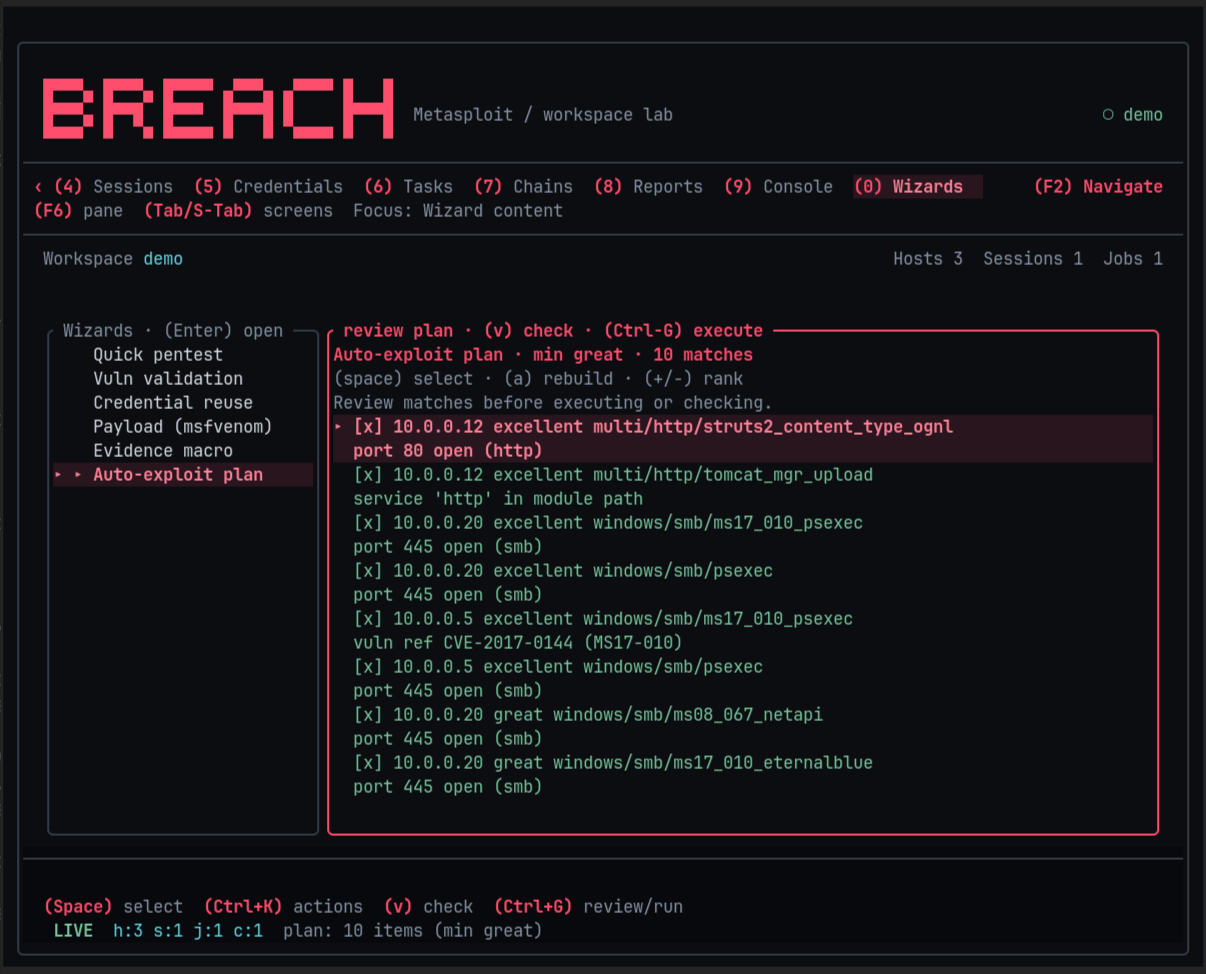
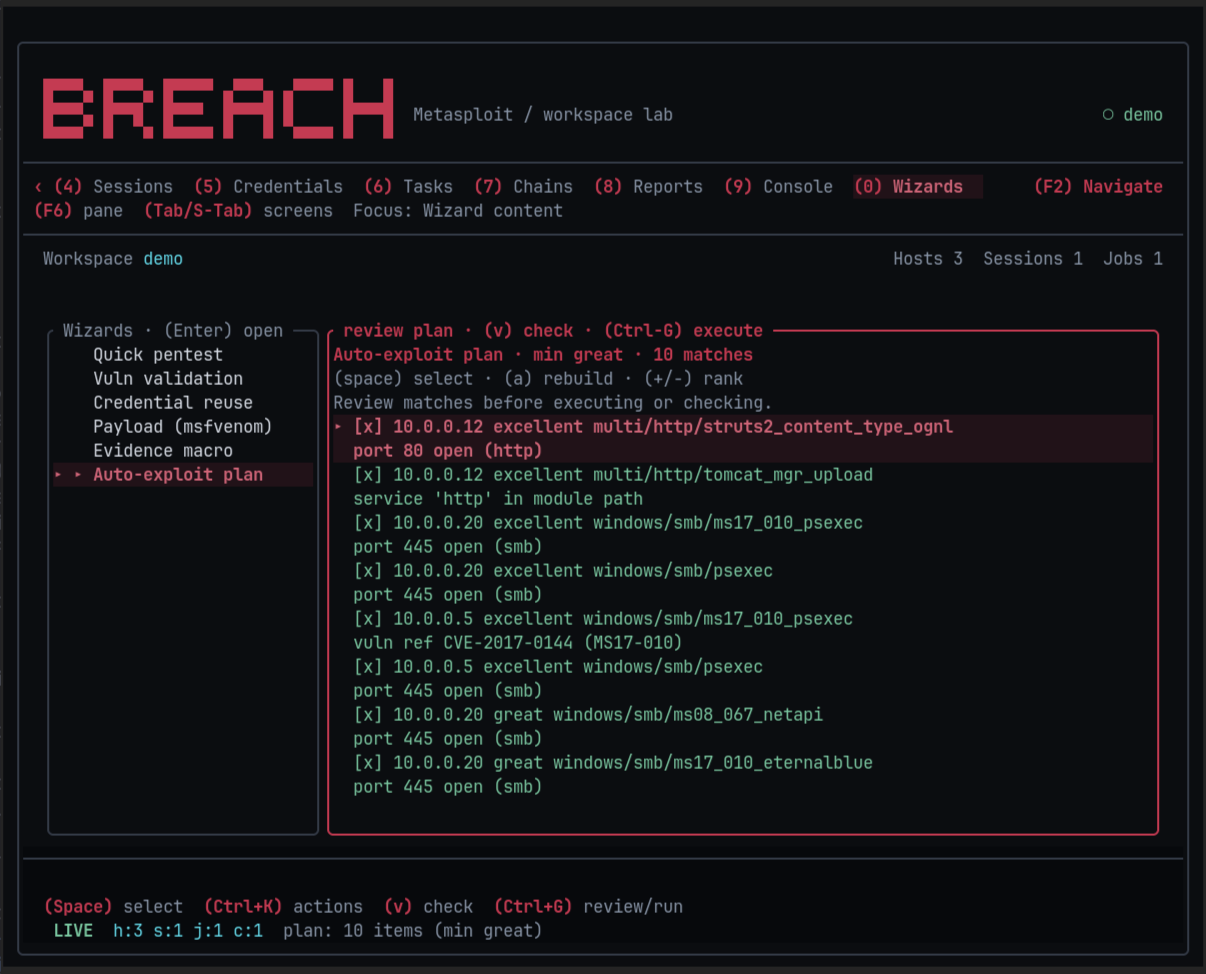
Darken Crimson accents, selections and error colors

diff --git a/src/theme/palette.rs b/src/theme/palette.rs
@@ -640,11 +640,11 @@ pub fn crimson() -> Theme {
         "Crimson",
         Kind::Dark,
         [
-            "0b0d10", "07090c", "181c23", "343b47", "28151e", "d6dbe4", "8793a5", "8793a5",
-            "ff4d6d", "ff6b6b", "e5b56d", "7ac7a0", "64d8e8", "64d8e8", "ff4d6d",
+            "0b0d10", "07090c", "181c23", "343b47", "211218", "d6dbe4", "8793a5", "8793a5",
+            "c43b52", "cc5050", "e5b56d", "7ac7a0", "64d8e8", "64d8e8", "c43b52",
         ],
     );
-    theme.selection_fg = hex("ff8298");
+    theme.selection_fg = hex("cf6578");
     theme
 }
 #[cfg(test)]
@@ -656,10 +656,10 @@ mod crimson_tests {
         assert_eq!(theme.id, "crimson");
         assert!(CHOICES.iter().any(|c| c.id == "crimson"));
         assert_eq!(theme.bg, hex("0b0d10"));
-        assert_eq!(theme.accent, hex("ff4d6d"));
+        assert_eq!(theme.accent, hex("c43b52"));
         assert_eq!(theme.cyan, hex("64d8e8"));
-        assert_eq!(theme.selection, hex("28151e"));
-        assert_eq!(theme.selection_fg, hex("ff8298"));
+        assert_eq!(theme.selection, hex("211218"));
+        assert_eq!(theme.selection_fg, hex("cf6578"));
         assert_ne!(theme.green, theme.accent);
         assert_ne!(theme.yellow, theme.red);
         assert_eq!(resolve("unknown", None).id, "crimson");

diff --git a/src/theme.rs b/src/theme.rs
@@ -182,8 +182,8 @@ mod security_theme_persistence {
                 assert_eq!(bg_color(), palette::hex("171820"));
             }
             if id == "crimson" {
-                assert_eq!(selected().bg, Some(palette::hex("28151e")));
-                assert_eq!(selected().fg, Some(palette::hex("ff8298")));
+                assert_eq!(selected().bg, Some(palette::hex("211218")));
+                assert_eq!(selected().fg, Some(palette::hex("cf6578")));
             }
         }
         std::fs::write(&path, "host = \"localhost\"\n").unwrap();

diff --git a/docs/themes.md b/docs/themes.md
@@ -1,6 +1,6 @@
 # Crimson
 
-Crimson is the default security-console theme: near-black surfaces, crimson focus and shortcut caps, steel-gray text, cyan data, green success, amber warnings, and red errors. Selected rows use a dark crimson background and lighter crimson text. Titles now use larger native terminal pixel lettering in the solid active theme accent (Crimson #FF4D6D), matching focused borders and shortcut caps. Navigation and other theme colors remain intact.
+Crimson is the default security-console theme: near-black surfaces, crimson focus and shortcut caps, steel-gray text, cyan data, green success, amber warnings, and red errors. Selected rows use a dark crimson background and lighter crimson text. Titles now use larger native terminal pixel lettering in the solid active theme accent (Crimson #C43B52), matching focused borders and shortcut caps. Navigation and other theme colors remain intact.
 
 Open **Ctrl+K**, search for **Crimson theme** or **Aurora theme**, and press Enter. Aurora remains available alongside Follow Omarchy and Terminal. Missing or unknown theme IDs fall back to Crimson; explicit saved choices are preserved.
 
@@ -11,3 +11,5 @@ Verification: both security tools passed theme-resolution and config round-trip 
 See [navigation verification](navigation.md). README screenshots show actual Foot renders with sample data; no scan or exploitation against a target was run.
 
 Pixel titles were checked in actual Foot screenshots at 120×40, 100×30, 80×24, and 60×20. Native block glyphs replace the smooth Sixel overlay, so the same pixel lettering works without image support. Breach’s compact host list reserves enough room for its selected row beneath the taller header.
+
+Crimson’s reds were darkened throughout: accent/title/borders/shortcuts #C43B52, selected text #CF6578, errors #CC5050, and selection background #211218. The refreshed actual Foot captures were inspected in wide and compact layouts; 96 security-tool tests passed.

diff --git a/docs/navigation.md b/docs/navigation.md
@@ -46,6 +46,6 @@ Sweep and Breach now render their names as larger solid-red terminal pixels, wit
 
 ## Final shared pixel headers — 2026-10-13
 
-All five titles use the same native terminal pixel geometry and size. Glim, Platter, and Luma preserve their accent-to-data gradients. Sweep and Breach use a solid theme accent so their title color matches focused borders and shortcut caps (Crimson #FF4D6D by default). Long titles preserve connection status above the pixels when it cannot fit beside them. Updated actual Foot screenshots: `/home/ken/Projects/work/tui-previews/final-pixel/`.
+All five titles use the same native terminal pixel geometry and size. Glim, Platter, and Luma preserve their accent-to-data gradients. Sweep and Breach use a solid theme accent so their title color matches focused borders and shortcut caps (Crimson #C43B52 by default). Long titles preserve connection status above the pixels when it cannot fit beside them. Updated actual Foot screenshots: `/home/ken/Projects/work/tui-previews/final-pixel/`.
 
 Final verification: `cargo fmt --check`, `cargo test --locked`, and `cargo build --release --locked` passed. Installed binaries match those release builds. Four-size PTY checks in mouse and `--no-mouse` modes passed for all five apps, including navigation, resizing, clean exit, termios, alternate-screen restoration, and mouse release (40 checks total).
